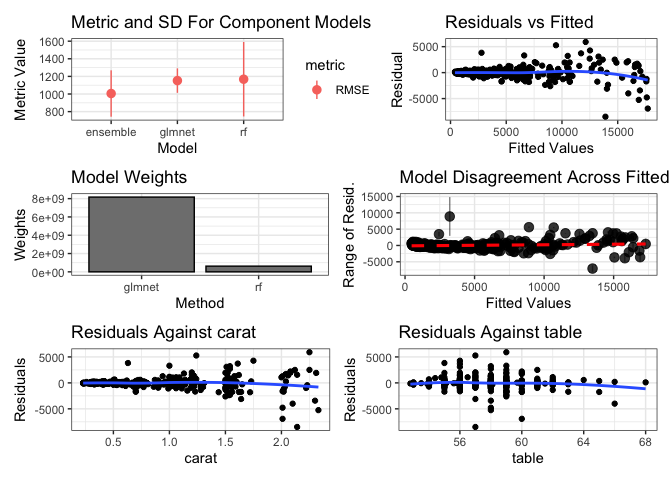
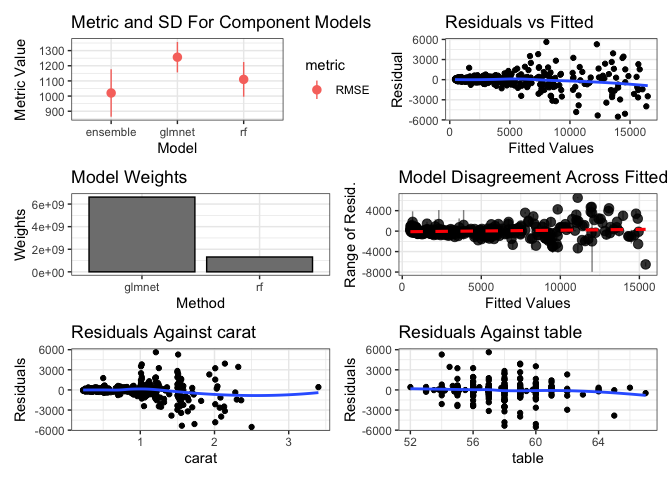
4.0 release (#323)
* update makefile

* add rhub checks

* update makefile and comments

* rebuild

diff --git a/README.md b/README.md
@@ -48,8 +48,8 @@ print(summary(models))
 #> Model accuracy:
 #>    model_name metric    value       sd
 #>        <char> <char>    <num>    <num>
-#> 1:         rf   RMSE 1168.108 422.9558
-#> 2:     glmnet   RMSE 1152.298 138.8310
+#> 1:         rf   RMSE 1110.199 114.5286
+#> 2:     glmnet   RMSE 1256.668 100.4436
 ```
 
 Then, use caretEnsemble to make a greedy ensemble of these models
@@ -67,18 +67,18 @@ print(greedy_stack)
 #> Summary of sample sizes: 400, 400, 400, 400, 400 
 #> Resampling results:
 #> 
-#>   RMSE     Rsquared  MAE    
-#>   1096.53  0.933482  631.215
+#>   RMSE      Rsquared   MAE     
+#>   1015.885  0.9364999  572.8984
 #> 
 #> Tuning parameter 'max_iter' was held constant at a value of 100
 #> 
 #> Final model:
 #> Greedy MSE
-#> RMSE:  1067.635 
+#> RMSE:  1031.297 
 #> Weights:
 #>        [,1]
-#> rf     0.43
-#> glmnet 0.57
+#> rf     0.63
+#> glmnet 0.37
 ```
 
 You can also use caretStack to make a non-linear ensemble
@@ -98,7 +98,7 @@ print(rf_stack)
 #> Resampling results:
 #> 
 #>   RMSE      Rsquared   MAE     
-#>   1005.629  0.9423501  490.6683
+#>   1020.387  0.9363342  527.8525
 #> 
 #> Tuning parameter 'mtry' was held constant at a value of 2
 #> 
@@ -110,8 +110,8 @@ print(rf_stack)
 #>                      Number of trees: 500
 #> No. of variables tried at each split: 2
 #> 
-#>           Mean of squared residuals: 1007817
-#>                     % Var explained: 94.29
+#>           Mean of squared residuals: 1065781
+#>                     % Var explained: 93.33
 ```
 
 Use autoplot from ggplot2 to plot ensemble diagnostics:

diff --git a/cran-comments.md b/cran-comments.md
@@ -3,6 +3,8 @@
 * R CMD CHECK github actions: mac, windows (R-release)
 * R CMD CHECK github actions: linux (R-release, R-devel, R-oldrelease)
 * win-builder (R-release, R-devel, R-oldrelease)
+* rhub (R-release, linux)
+* reverse dependencies via revdepcheck
 
 ## R CMD check results
 There were no ERRORs, WARNINGs, or NOTEs
